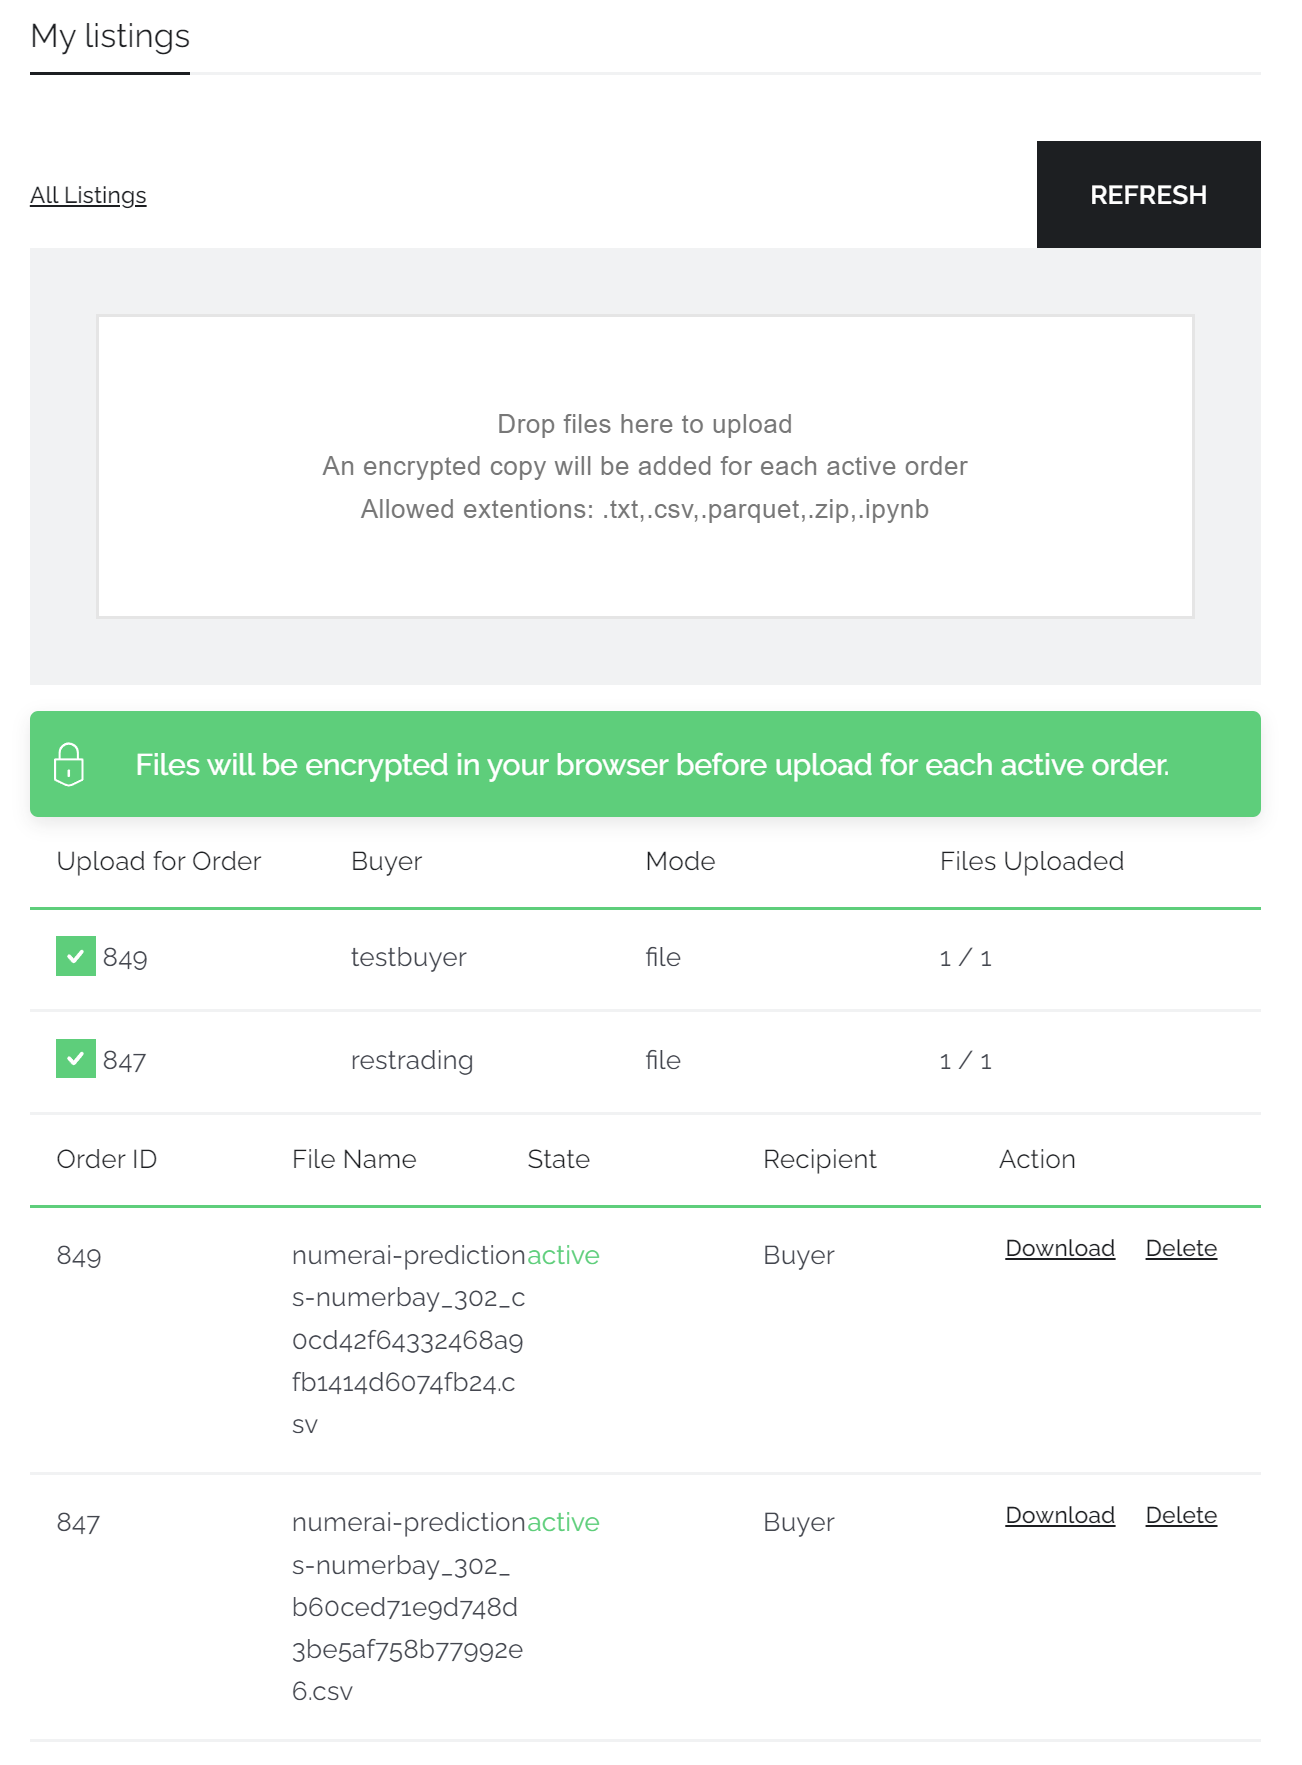
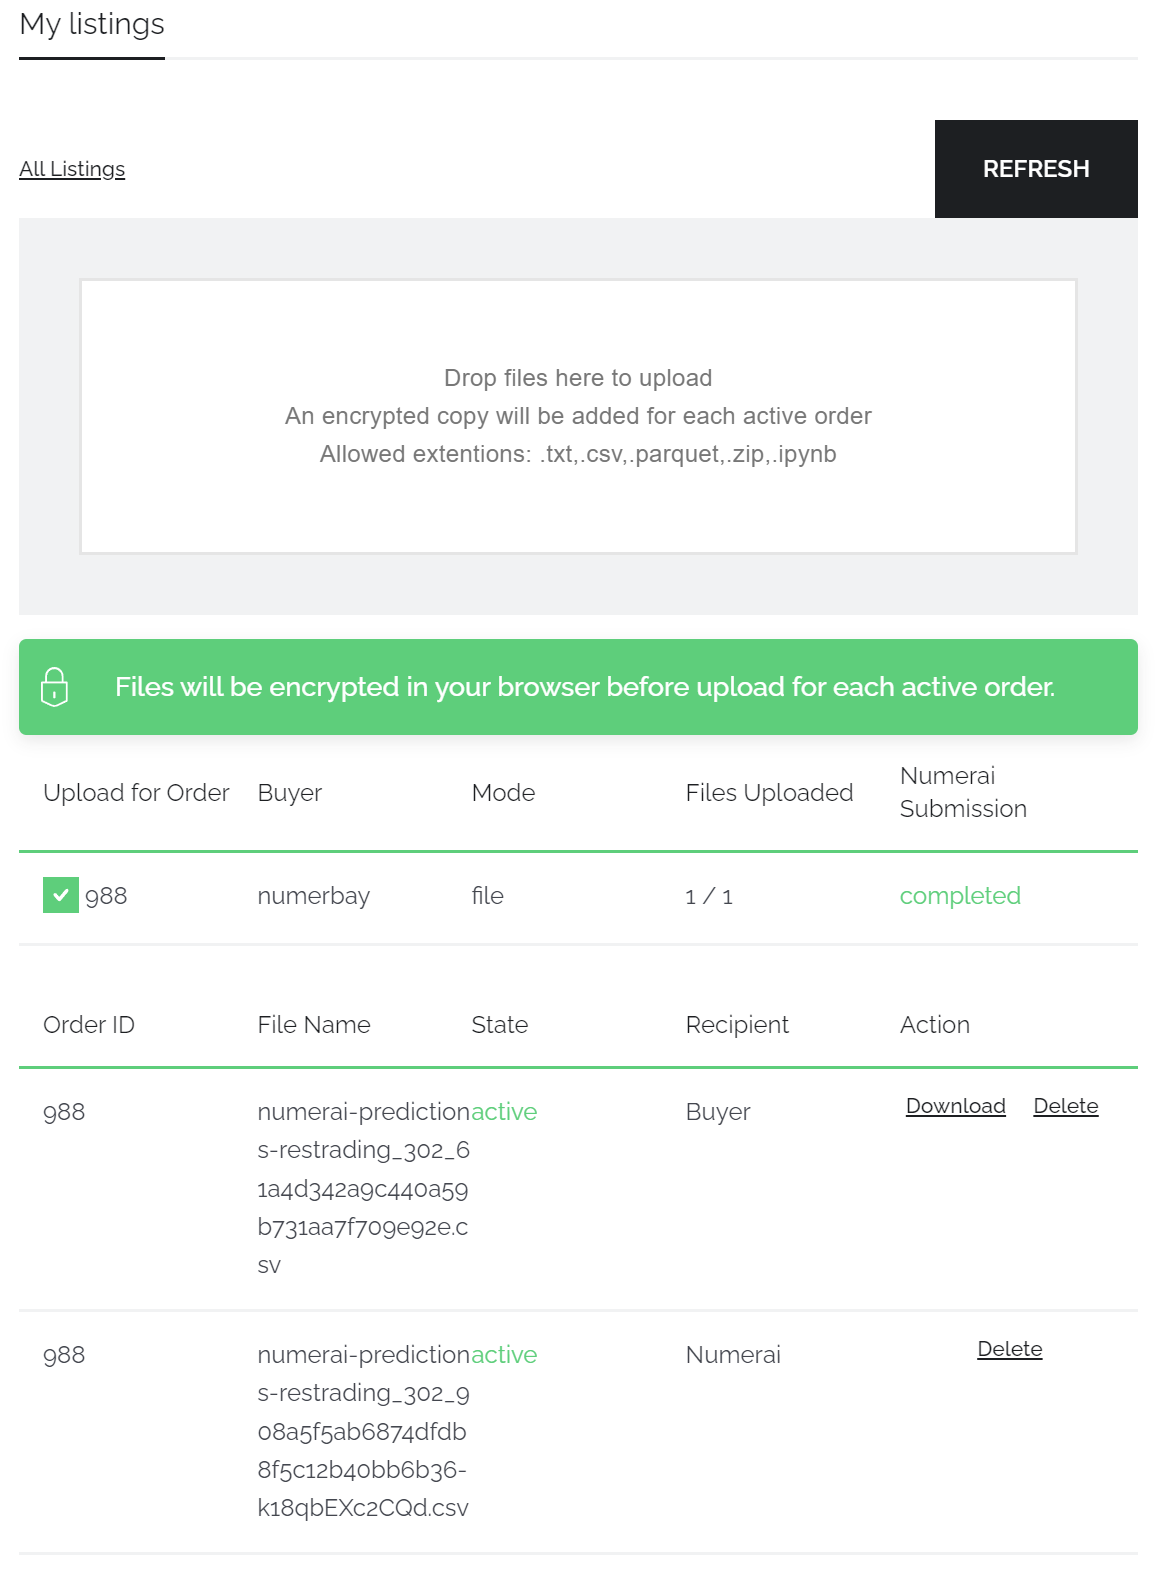
Fixed validation for direct Numerai submission, added Numerai submission status display in order artifact panel, updated docs

diff --git a/frontend/packages/theme/components/Molecules/OrderArtifactPanel.vue b/frontend/packages/theme/components/Molecules/OrderArtifactPanel.vue
@@ -56,6 +56,7 @@
         <SfTableHeader>Buyer</SfTableHeader>
         <SfTableHeader>Mode</SfTableHeader>
         <SfTableHeader>Files Uploaded</SfTableHeader>
+        <SfTableHeader>Numerai Submission</SfTableHeader>
       </SfTableHeading>
       <SfTableRow v-if="orders && orders.length===0">No active order to upload for</SfTableRow>
       <SfTableRow v-for="order in orders" :key="orderGetters.getId(order)" :class="isPendingUpload(order) ? 'upload-warning' : ''">
@@ -70,9 +71,10 @@
         <SfTableData>
           {{ (!order.buyer_public_key) ? filterActiveArtifacts(artifacts.data).length : getUniqueActiveOrderArtifacts(order).length}} / {{getMaxOrderArtifactsCount()}}
         </SfTableData>
+        <SfTableData><span :class="getSubmissionStatusTextClass(order)">{{ orderGetters.getSubmissionStatus(order) }}</span></SfTableData>
       </SfTableRow>
     </SfTable>
-
+    <br/>
     <SfTable class="orders" v-if="getAllOrderArtifacts() && orders && orders.length > 0 && artifacts">
       <SfTableHeading>
         <SfTableHeader
@@ -644,6 +646,20 @@ export default {
       }
     };
 
+    const getSubmissionStatusTextClass = (order) => {
+      const status = orderGetters.getSubmissionStatus(order);
+      switch (status) {
+        case 'failed':
+          return 'text-danger';
+        case 'queued':
+          return 'text-warning';
+        case 'completed':
+          return 'text-success';
+        default:
+          return '';
+      }
+    };
+
     return {
       artifacts: computed(() => artifacts ? artifacts.value : null),
       createArtifact,
@@ -666,7 +682,8 @@ export default {
       orderGetters,
       artifactGetters,
       orderSearch,
-      getStatusTextClass
+      getStatusTextClass,
+      getSubmissionStatusTextClass
     };
   }
 

diff --git a/frontend/packages/theme/pages/Home.vue b/frontend/packages/theme/pages/Home.vue
@@ -131,26 +131,26 @@
 </template>
 <script>
 import {
-  SfHero,
+  SfArrow,
   SfBanner,
+  SfBannerGrid,
+  SfButton,
   SfCallToAction,
   SfCard,
-  SfSection,
   SfCarousel,
-  SfProductCard,
-  SfImage,
-  SfBannerGrid,
   SfHeading,
-  SfArrow,
-  SfButton,
-  SfLoader
+  SfHero,
+  SfImage,
+  SfLoader,
+  SfProductCard,
+  SfSection
 } from '@storefront-ui/vue';
 import InstagramFeed from '~/components/InstagramFeed.vue';
-import MobileStoreBanner from '~/components/MobileStoreBanner.vue';
-import { useGlobals } from '@vue-storefront/numerbay';
 import LazyHydrate from 'vue-lazy-hydration';
+import MobileStoreBanner from '~/components/MobileStoreBanner.vue';
 import axios from 'axios';
 import { onSSR } from '@vue-storefront/core';
+import { useGlobals } from '@vue-storefront/numerbay';
 
 export default {
   name: 'Home',

diff --git a/frontend/packages/theme/components/MyAccount/ProfileUpdateForm.vue b/frontend/packages/theme/components/MyAccount/ProfileUpdateForm.vue
@@ -198,6 +198,10 @@ export default {
           'x25519-xsalsa20-poly1305'
         ));
       } catch {
+        await this.send({
+          message: 'Please allow MetaMask to provide the public key',
+          type: 'danger'
+        });
         return;
       }
 

diff --git a/backend/app/app/api/api_v1/endpoints/order_artifacts.py b/backend/app/app/api/api_v1/endpoints/order_artifacts.py
@@ -172,6 +172,7 @@ def validate_upload(
             db_obj=artifact.order,
             obj_in={"submit_state": "completed", "last_submit_round": selling_round},
         )  # type: ignore
+        artifact = crud.order_artifact.get(db, id=artifact_id)
     else:
         # validate numerbay upload
         blob = bucket.blob(artifact.object_name)
@@ -184,7 +185,7 @@ def validate_upload(
                         username=artifact.order.product.owner.username,
                         round_tournament=artifact.round_tournament,  # type: ignore
                         product=artifact.order.product.sku,
-                        artifact=artifact.object_name,
+                        artifact=artifact.object_name,  # type: ignore
                     )
 
             crud.order_artifact.update(db, db_obj=artifact, obj_in={"state": "failed"})
@@ -197,12 +198,12 @@ def validate_upload(
             kwargs=dict(artifact_id=artifact.id),
         )
 
-    crud.order_artifact.update(db, db_obj=artifact, obj_in={"state": "active"})
+    crud.order_artifact.update(db, db_obj=artifact, obj_in={"state": "active"})  # type: ignore
 
     # mark product as ready
-    if not artifact.order.product.is_ready:
+    if not artifact.order.product.is_ready:  # type: ignore
         crud.product.update(
-            db, db_obj=artifact.order.product, obj_in={"is_ready": True}
+            db, db_obj=artifact.order.product, obj_in={"is_ready": True}  # type: ignore
         )
 
     # validate and fulfill orders immediately
